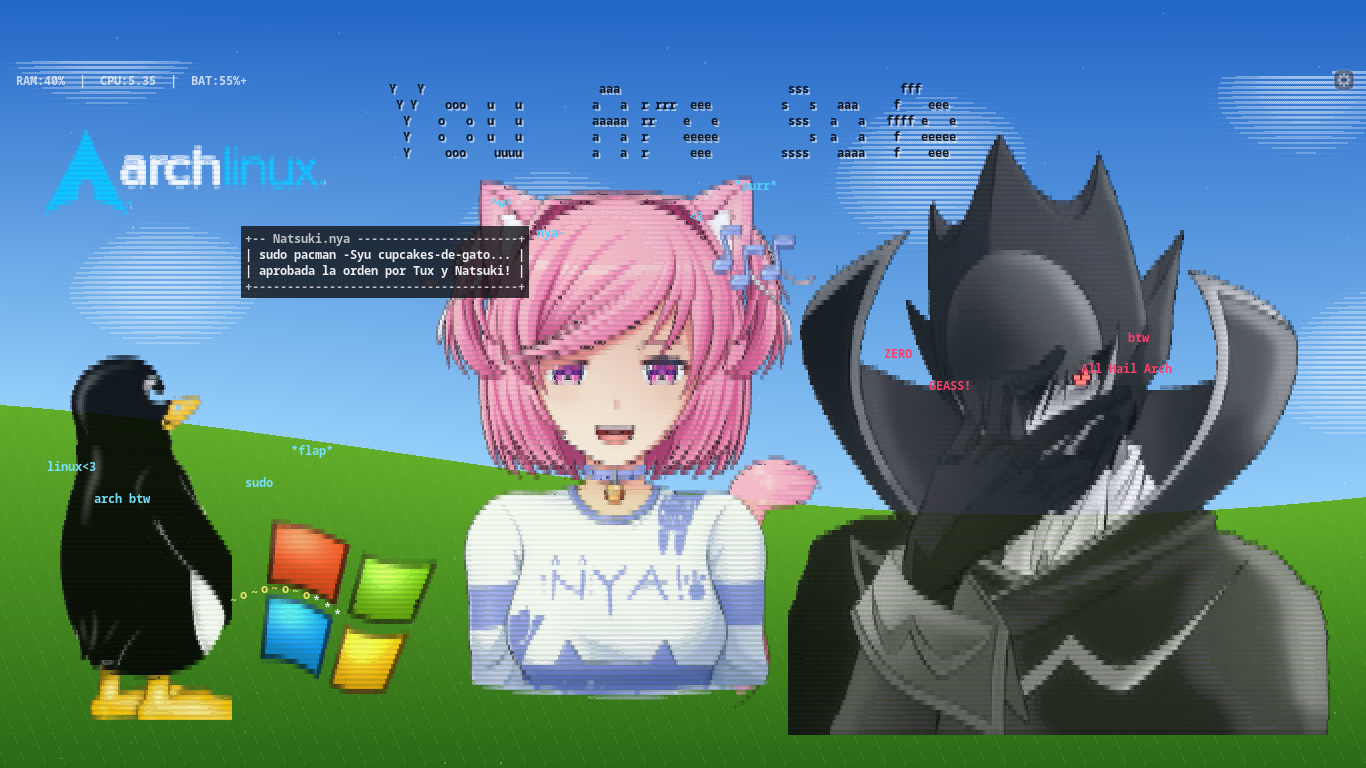
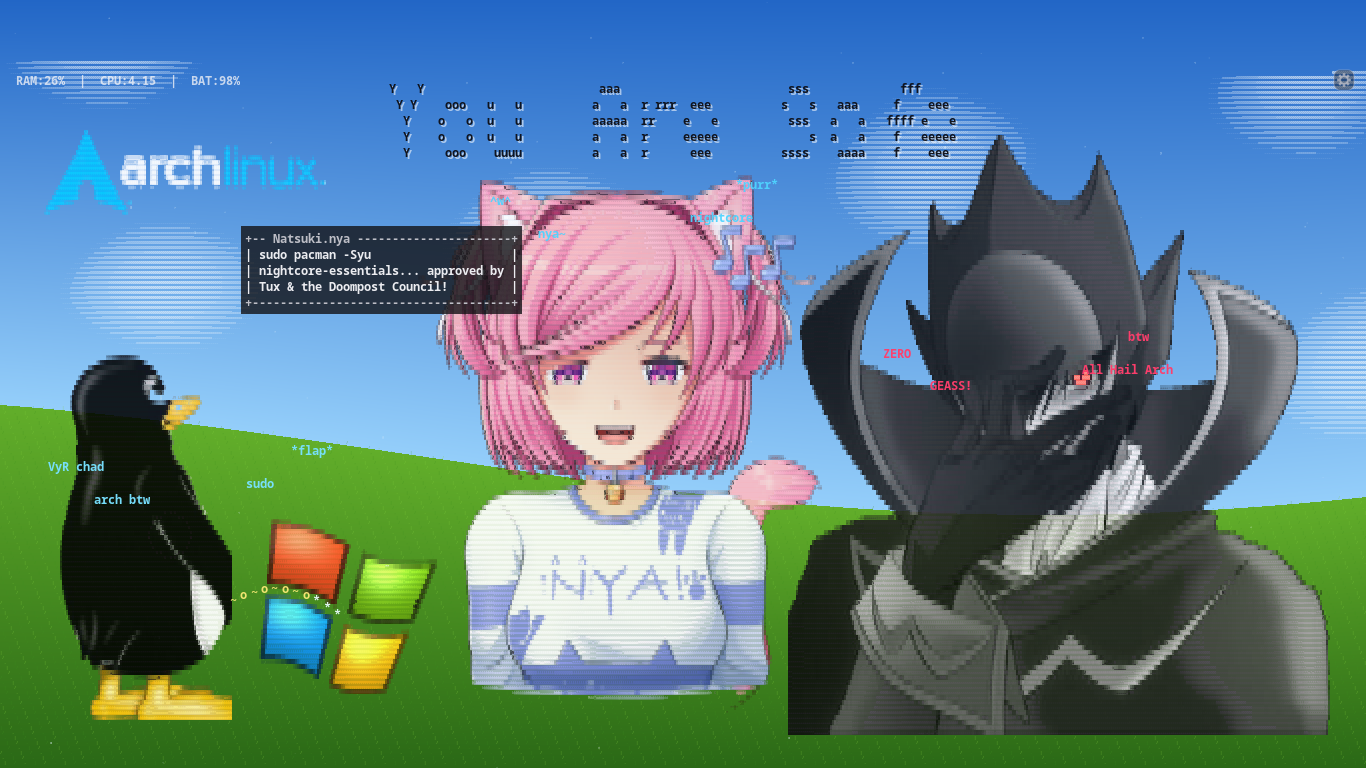
Switch dialogues to English with Nightcore, Chris-Chan, Doompost & VyR meme references

diff --git a/src/ascii_wallpaper.cpp b/src/ascii_wallpaper.cpp
@@ -397,12 +397,12 @@ public:
         fs::path nat_assets = fs::path(root_dir_) / "assets" / "natsuki";
 
         const std::array<std::pair<const char*, const char*>, 6> mood_defs = {{
-            {"happy", "Feliz"},
-            {"blush", "Sonrojada"},
+            {"happy", "Happy"},
+            {"blush", "Blush"},
             {"tsun", "Tsundere"},
-            {"angry", "Enojada"},
-            {"surprised", "Sorpresa"},
-            {"thinking", "Pensando"},
+            {"angry", "Angry"},
+            {"surprised", "Shocked"},
+            {"thinking", "Thinking"},
         }};
         for (const auto& [mid, mlbl] : mood_defs) {
             MoodSpriteSet s;
@@ -450,7 +450,7 @@ public:
         }
 
         init_rain();
-        say("Bliss x Arch ASCII activo! Tux, Lelouch y yo cuidamos tu Linux~", "happy");
+        say("Bliss x Arch live! Tux, Lelouch & I survived VyR doomposting to guard your rice~", "happy");
 
         if (self_test_) {
             return run_self_test();
@@ -587,11 +587,11 @@ private:
 
     void trigger_pat_reaction(double px, double py) {
         static const std::array<std::pair<const char*, const char*>, 5> kPatLines = {{
-            {"Nyaa~?! N-No me acaricies las orejas asi... idiota >///<", "blush"},
-            {"Prrr... digo, NO estaba ronroneando! Solo me acomodaba el gorro!", "blush"},
-            {"Hmph! Si sigues haciendome piojito en las orejas me voy a quedar aqui todo el dia~", "happy"},
-            {"Meow~ Ok, un poquito mas ahi atras de la orejita no esta mal...", "happy"},
-            {"O-Oye! Las orejas de gato son sensibles, baka!!", "tsun"},
+            {"N-Nya?! Stop patting my cat ears while blasting 2011 Nightcore AMVs, baka >///<", "blush"},
+            {"Prrr... NO I am NOT purring! I'm calibrating pitch +30% Nightcore Rockefeller Street!!", "blush"},
+            {"Hmph! Petting cat-ears like this feels straight out of the CWCville Dimensional Merge~", "happy"},
+            {"Wait... keep patting there and I won't sage your VyR waifu thread anon~", "happy"},
+            {"Hands off the ears! You're acting weirder than a Doompost lore iceberg at 3 AM!!", "tsun"},
         }};
         size_t idx = static_cast<size_t>(total_clicks_) % kPatLines.size();
         say(kPatLines[idx].first, kPatLines[idx].second, 6.0);
@@ -599,85 +599,85 @@ private:
         spring_vx_ += ((total_clicks_ & 1) ? 3.2 : -3.2);
         ear_twitch_left_ = 0.34;
         ear_twitch_dir_ = (total_clicks_ & 1) ? 1 : -1;
-        spawn_tags(px, py, {"nya~", "<3", "^w^", "*purr*"}, themes_[theme_idx_].accent);
+        spawn_tags(px, py, {"nya~", "nightcore", "^w^", "*purr*"}, themes_[theme_idx_].accent);
     }
 
     void trigger_bell_reaction(double px, double py) {
         static const std::array<std::pair<const char*, const char*>, 4> kBellLines = {{
-            {"*Ring~!* Oye! Mi cascabel no es un timbre para llamarme!!", "tsun"},
-            {"*Ding!* Nya?! Me asustaste con el cascabelito!", "surprised"},
-            {"Tilín~ Quieres un cupcake con forma de gatito o que?", "happy"},
-            {"No toques mi collar o te muerdo como gato callejero!! >:3", "angry"},
+            {"*Ring~!* Hey! My collar bell isn't the VyR thread refresh button, anon!!", "tsun"},
+            {"*Ding!* Nya?! Sounds like the Man in the Pickle Suit just walked into CWCville!", "surprised"},
+            {"Jingle~ Ring again for Sonichu-tier cupcakes or Angel With A Shotgun Nightcore!", "happy"},
+            {"Touch my bell one more time and I'm calling Liquid Chris on your rice!! >:3", "angry"},
         }};
         size_t idx = static_cast<size_t>(total_clicks_) % kBellLines.size();
         say(kBellLines[idx].first, kBellLines[idx].second, 5.5);
         spring_vz_ -= 6.0;
         spring_vx_ += 4.5;
-        spawn_tags(px, py, {"*ding!*", "~♪", ":3"}, themes_[theme_idx_].accent_soft);
+        spawn_tags(px, py, {"*ding!*", "sonichu", ":3"}, themes_[theme_idx_].accent_soft);
     }
 
     void trigger_poke_reaction(double px, double py) {
         static const std::array<std::pair<const char*, const char*>, 5> kPokeLines = {{
-            {"O-OYE!! Donde pones el cursor?! Baka!! >.<", "angry"},
-            {"Nyaaa!! Quitame ese puntero de encima ahorita mismo!!", "angry"},
-            {"Q-Que miras mi sueter de gatito?! No te burles!!", "tsun"},
-            {"Hmph! Manga + gatito = obra de arte. Respeta!!", "surprised"},
-            {"Grrr~ *arañazo ASCII* Te voy a borrar el wallpaper si sigues picando!", "angry"},
+            {"H-HEY!! Where is that cursor going?! Do I look like a VyR bait thread?! >.<", "angry"},
+            {"Back off!! Keep poking and you're getting exiled straight to CWCville!!", "angry"},
+            {"Q-Quit staring at my NYA sweater! Even the Doomverse guys have better manners!", "tsun"},
+            {"Manga IS literature, AND 2012 anime Nightcore is peak culture. Respect!!", "surprised"},
+            {"Grrr~ *ASCII scratch* One more poke and I brick your bootloader, baka!!", "angry"},
         }};
         size_t idx = static_cast<size_t>(total_clicks_) % kPokeLines.size();
         say(kPokeLines[idx].first, kPokeLines[idx].second, 5.5);
         spring_vz_ -= 9.5;
         spring_vx_ += ((total_clicks_ & 1) ? -5.8 : 5.8);
-        spawn_tags(px, py, {"BAKA!", ">.<", "nya?!", "!"}, {255, 95, 130});
+        spawn_tags(px, py, {"SAGE!", ">.<", "BAKA!", "!"}, {255, 95, 130});
     }
 
     void trigger_bg_reaction(double px, double py) {
         static const std::array<std::pair<const char*, const char*>, 5> kBgLines = {{
-            {"*mira tu cursor pasear por el escritorio* Hmph, hoy si vas a programar?", "thinking"},
-            {"Nya~ Me veo mas tierna en ASCII que tu tema minimalista, admitelo!", "happy"},
-            {"=^._.^= Vigilando tus ventanas en silencio... mas te vale no abrir basura!", "tsun"},
-            {"*mueve la colita de gato* Tus letras ASCII brillan bonito hoy~", "blush"},
-            {"Miaw~ Haz clic en mis orejas si necesitas animo para chambear!", "happy"},
+            {"*watches your cursor* Anon, stop lurking VyR and actually write some code!", "thinking"},
+            {"Nya~ Nightcore AMV playing in spirit while Arch compiles in the background~", "happy"},
+            {"=^._.^= Guarding your desktop from Windows bloat and Doompost drama threads!", "tsun"},
+            {"Fun fact: The Dimensional Merge only delivers crisp ASCII catgirls on Hyprland.", "blush"},
+            {"Meow~ Queue some 2009 Nightcore or click Tux if Windows tries to update!", "happy"},
         }};
         size_t idx = static_cast<size_t>(total_clicks_) % kBgLines.size();
         say(kBgLines[idx].first, kBgLines[idx].second, 5.0);
-        spawn_tags(px, py, {"*", "nya", "+"}, themes_[theme_idx_].rain_color);
+        spawn_tags(px, py, {"*", "VyR", "nya"}, themes_[theme_idx_].rain_color);
     }
 
     void trigger_tux_reaction(double px, double py) {
         static const std::array<std::pair<const char*, const char*>, 5> kTuxLines = {{
-            {"*Tux aletea orgulloso* Dice que 'uses Arch btw', pero yo mando aqui!!", "tsun"},
-            {"Hmph! Tux y yo cuidamos tu kernel mientras haces cosas de otaku~", "happy"},
-            {"*Tux grazna en binario* Oye pinguino, no te robes mis cupcakes!!", "surprised"},
-            {"sudo pacman -Syu cupcakes-de-gato... aprobada la orden por Tux y Natsuki!", "happy"},
-            {"*Tux te saluda con la aleta* Bueno... admito que el pinguino es medio chad.", "blush"},
+            {"*Tux flaps proudly* Even Oveja couldn't survive this level of Windows splashing!", "tsun"},
+            {"You are safe, anon. No Windows telemetry, only Arch + Doomverse-proof Linux~", "happy"},
+            {"*Tux honks in binary* This Bliss hill now belongs to VyR Linux chads & Sonichu!", "surprised"},
+            {"sudo pacman -Syu nightcore-essentials... approved by Tux & the Doompost Council!", "happy"},
+            {"*Tux salutes* Pure Ario-tier kernel stability while splashing WinXP panes!!", "blush"},
         }};
         size_t idx = static_cast<size_t>(total_clicks_) % kTuxLines.size();
         say(kTuxLines[idx].first, kTuxLines[idx].second, 5.5);
         tux_vz_ += 8.2;
         tux_flap_left_ = 0.55;
-        spawn_tags(px, py - 18.0, {"arch btw", "sudo", "linux<3", "*flap*"}, {120, 225, 255});
+        spawn_tags(px, py - 18.0, {"arch btw", "sudo", "VyR chad", "*flap*"}, {120, 225, 255});
     }
 
     void trigger_arch_reaction(double px, double py) {
         static const std::array<std::pair<const char*, const char*>, 4> kArchLines = {{
-            {"I use Arch, btw!! Y con Natsuki neko + Lelouch en el wallpaper todavia mas chad~", "happy"},
-            {"sudo pacman -Syu anime-girl... paquete instalado con exito!!", "blush"},
-            {"Arch Linux + Hyprland + gatita tsundere = el setup definitivo!", "tsun"},
-            {"Cuidado con romper el sistema en AUR... Tux y Lelouch te vigilamos!", "thinking"},
+            {"I use Arch, btw!! Stronger than Liquid Chris singing for Kacey!", "happy"},
+            {"sudo pacman -Syu anime-memes... CWCville + VyR edition installed cleanly!!", "blush"},
+            {"Arch + Hyprland + Natsuki Nya = certified top-tier VyR desktop thread.", "tsun"},
+            {"Careful editing AUR PKGBUILDs or you'll trigger a Doompost-level tragedy!", "thinking"},
         }};
         size_t idx = static_cast<size_t>(total_clicks_) % kArchLines.size();
         say(kArchLines[idx].first, kArchLines[idx].second, 5.5);
         tux_vz_ += 4.5;
-        spawn_tags(px, py - 16.0, {"arch btw", "AUR", "pacman", "chad"}, {79, 212, 255});
+        spawn_tags(px, py - 16.0, {"arch btw", "AUR", "Nightcore", "chad"}, {79, 212, 255});
     }
 
     void trigger_lelouch_reaction(double px, double py) {
         static const std::array<std::pair<const char*, const char*>, 4> kLelouchLines = {{
-            {"Lelouch vi Britannia te ordena: usa Arch Linux y dale mimos a Natsuki!!", "tsun"},
-            {"*brilla su ojo Geass rojo* Windows ha sido destruido por orden de Zero.", "surprised"},
-            {"All Hail Arch Linux!! Natsuki neko + Tux ahora dominan tu escritorio.", "happy"},
-            {"Con el poder del Geass ni un kernel panic podra contigo, btw.", "thinking"},
+            {"Lelouch vi Britannia commands you: use Arch, blast Nightcore, and pet Natsuki!!", "tsun"},
+            {"*Geass flares red* Windows bloat has been obliterated faster than a VyR bait!", "surprised"},
+            {"All Hail Arch Linux!! We control the Dimensional Merge from Zero's terminal.", "happy"},
+            {"With the power of Geass, not even a Doomverse meltdown can crash Hyprland!", "thinking"},
         }};
         size_t idx = static_cast<size_t>(total_clicks_) % kLelouchLines.size();
         say(kLelouchLines[idx].first, kLelouchLines[idx].second, 5.8);
@@ -868,7 +868,7 @@ private:
     void on_button_press(const MonitorWindow& mw, double x, double y, guint button) {
         if (button == 3) {
             theme_idx_ = (theme_idx_ + 1) % static_cast<int>(themes_.size());
-            say("Tema ASCII cambiado a: " + themes_[theme_idx_].label + " ~", "happy", 3.2);
+            say("ASCII theme switched to: " + themes_[theme_idx_].label + " ~", "happy", 3.2);
             queue_redraw();
             return;
         }
@@ -934,11 +934,11 @@ private:
             audio_reactive_ = !audio_reactive_;
             if (audio_reactive_) {
                 audio_monitor_.start("monitor");
-                say("Modo Audio ASCII activado~ Pon tu opening favorito!", "happy", 3.5);
+                say("Audio ASCII ON~ Drop some 2011 Nightcore or anime OPs!", "happy", 3.5);
             } else {
                 audio_monitor_.stop();
                 audio_snap_ = AudioSnapshot{};
-                say("Audio ASCII pausado.", "thinking", 2.5);
+                say("Audio ASCII paused.", "thinking", 2.5);
             }
         } else if (act == "gear") {
             menu_open_ = !menu_open_;
@@ -958,10 +958,10 @@ private:
         if (keyval >= GDK_KEY_1 && keyval <= GDK_KEY_6) {
             auto_mood_ = false;
             mood_idx_ = static_cast<int>(keyval - GDK_KEY_1) % static_cast<int>(sprites_.size());
-            say("Expresion fijada: " + sprites_[mood_idx_].label, sprites_[mood_idx_].id, 3.0);
+            say("Mood locked: " + sprites_[mood_idx_].label, sprites_[mood_idx_].id, 3.0);
         } else if (keyval == GDK_KEY_0) {
             auto_mood_ = true;
-            say("Modo de expresion automatico activado ~", "happy", 3.0);
+            say("Auto mood cycle enabled ~", "happy", 3.0);
         } else if (keyval == GDK_KEY_t || keyval == GDK_KEY_T) {
             handle_hud_action("theme");
         } else if (keyval == GDK_KEY_d || keyval == GDK_KEY_D) {
@@ -1849,16 +1849,16 @@ private:
 
         // Toggleable floating monochrome ASCII settings menu below the gear button
         if (menu_open_) {
-            static const char* kDensLabels[] = {"Hyper", "Ultra", "Fino", "Medio", "Retro"};
+            static const char* kDensLabels[] = {"Hyper", "Ultra", "Fine", "Medium", "Retro"};
             std::vector<std::pair<std::string, std::string>> defs = {
                 {"mood", "Mood:    " + std::string(auto_mood_ ? "Auto/" : "") + sprites_[mood_idx_].label},
-                {"theme", "Tema:    " + themes_[theme_idx_].label},
+                {"theme", "Theme:   " + themes_[theme_idx_].label},
                 {"density", "ASCII:   " + std::string(kDensLabels[density_idx_])},
-                {"rain", std::string("Lluvia:  ") + (rain_enabled_ ? "ON" : "OFF")},
-                {"pos", std::string("Pos:     ") + (right_aligned_ ? "Derecha" : "Centro")},
-                {"tux", std::string("Tux+Arch:") + (tux_enabled_ ? "ON" : "OFF")},
+                {"rain", std::string("Rain:    ") + (rain_enabled_ ? "ON" : "OFF")},
+                {"pos", std::string("Pos:     ") + (right_aligned_ ? "Right" : "Center")},
+                {"tux", std::string("Crew:    ") + (tux_enabled_ ? "ON" : "OFF")},
                 {"audio", std::string("Audio:   ") + (audio_reactive_ ? "ON" : "OFF")},
-                {"gear", "Cerrar menu [x]"},
+                {"gear", "Close menu [x]"},
             };
             int max_lbl = 22;
             for (const auto& [a, l] : defs) {
@@ -1880,7 +1880,7 @@ private:
                     row[xx] = 0xff000000U | (dr << 16) | (dg << 8) | db;
                 }
             }
-            std::string hdr = "+-- Ajustes ASCII " + std::string(std::max(1, max_lbl - 15), '-') + "+";
+            std::string hdr = "+-- ASCII Menu " + std::string(std::max(1, max_lbl - 12), '-') + "+";
             std::string ftr = "+" + std::string(max_lbl + 2, '-') + "+";
             draw_ascii_text(px, w, h, stride_px, ui_atlas, hdr, mx0 + ucw, my0 + 4, kUiBorder, 245);
             for (size_t di = 0; di < defs.size(); ++di) {
